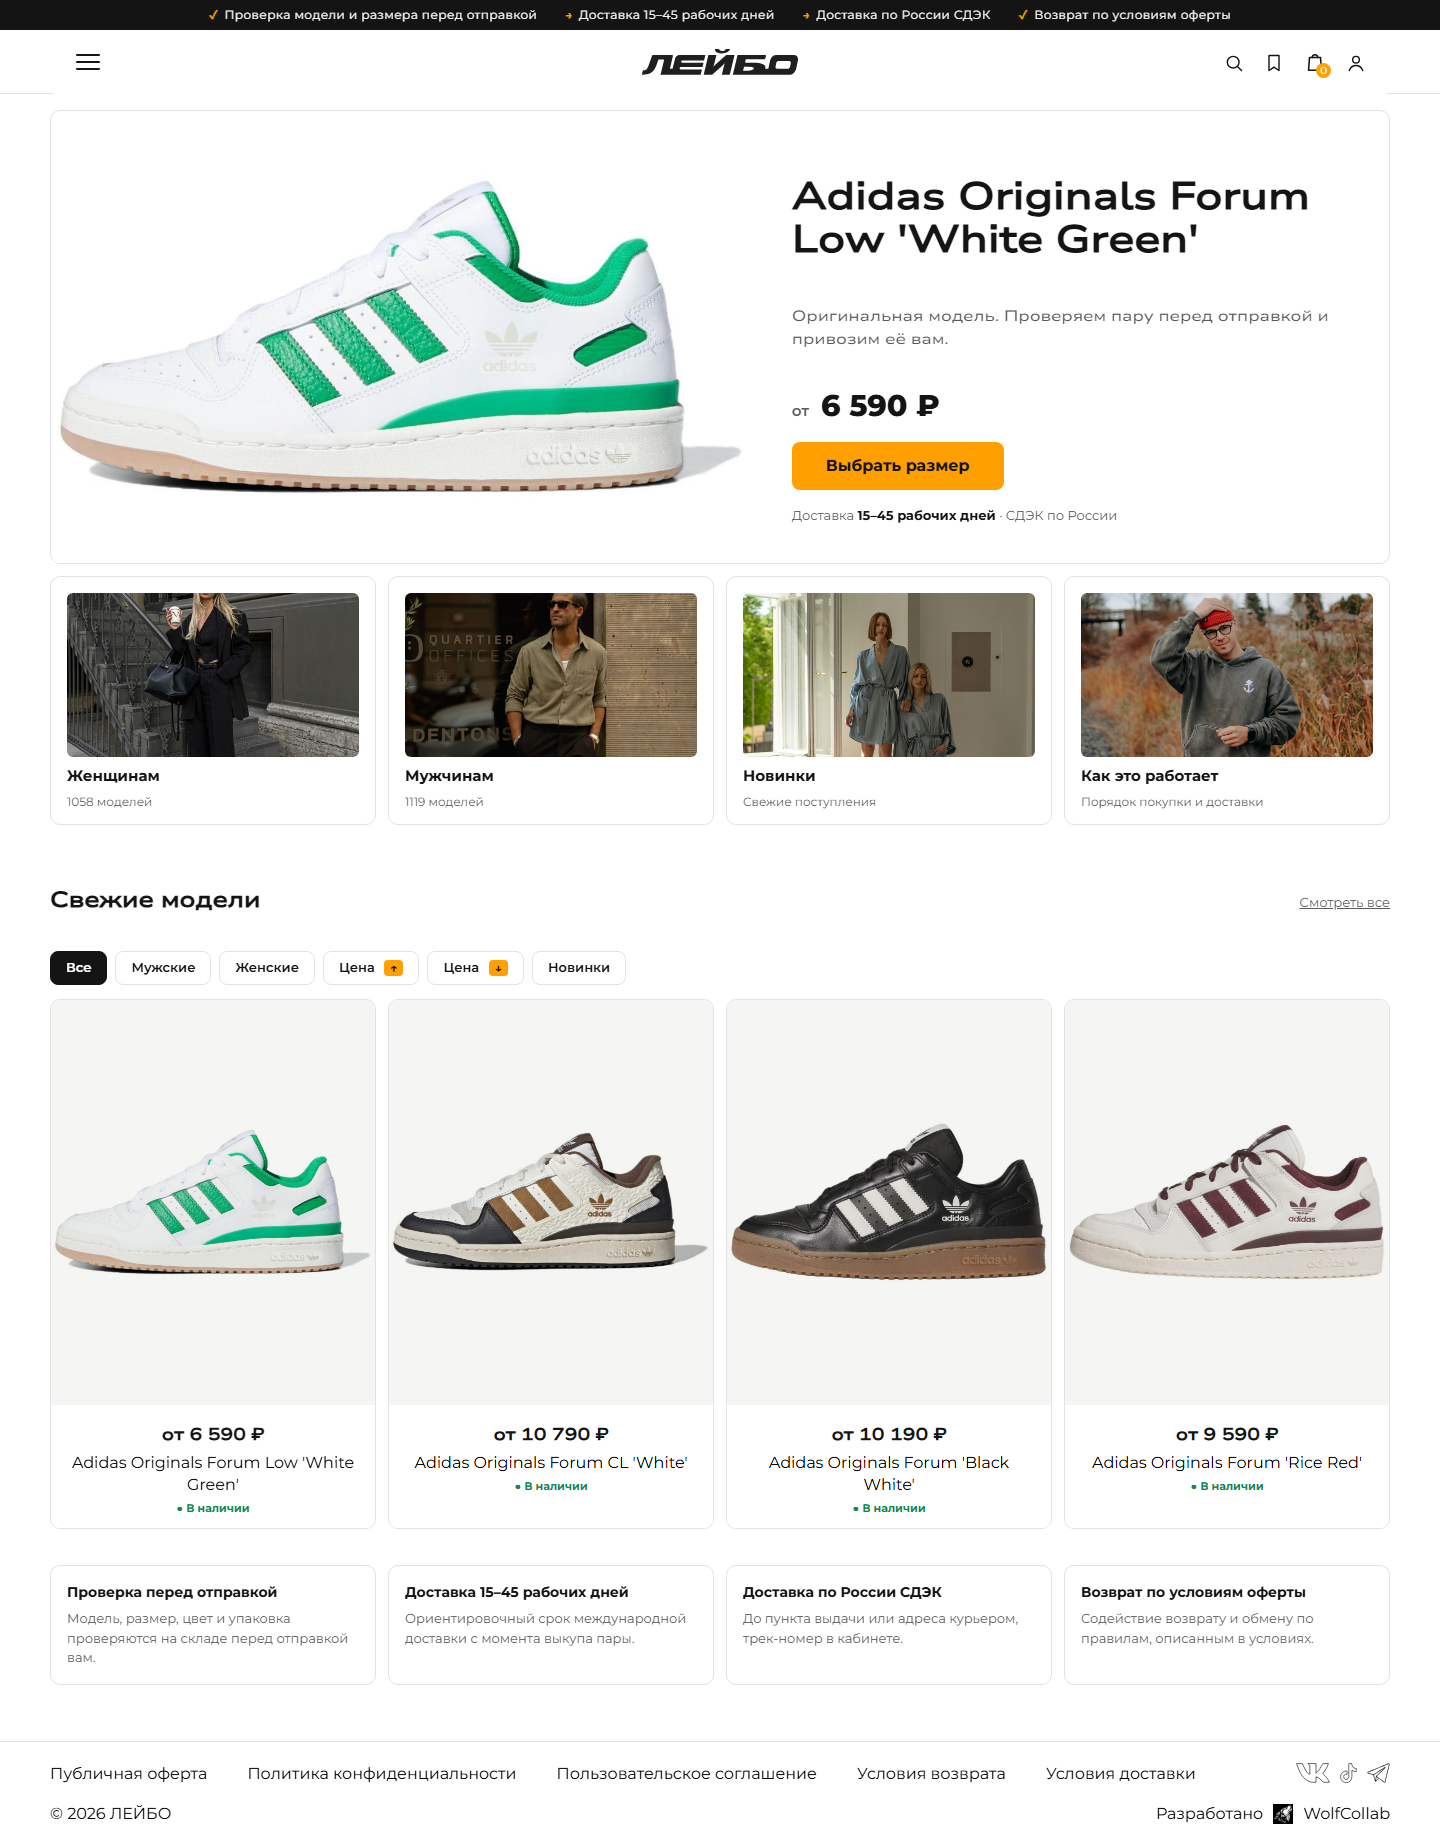
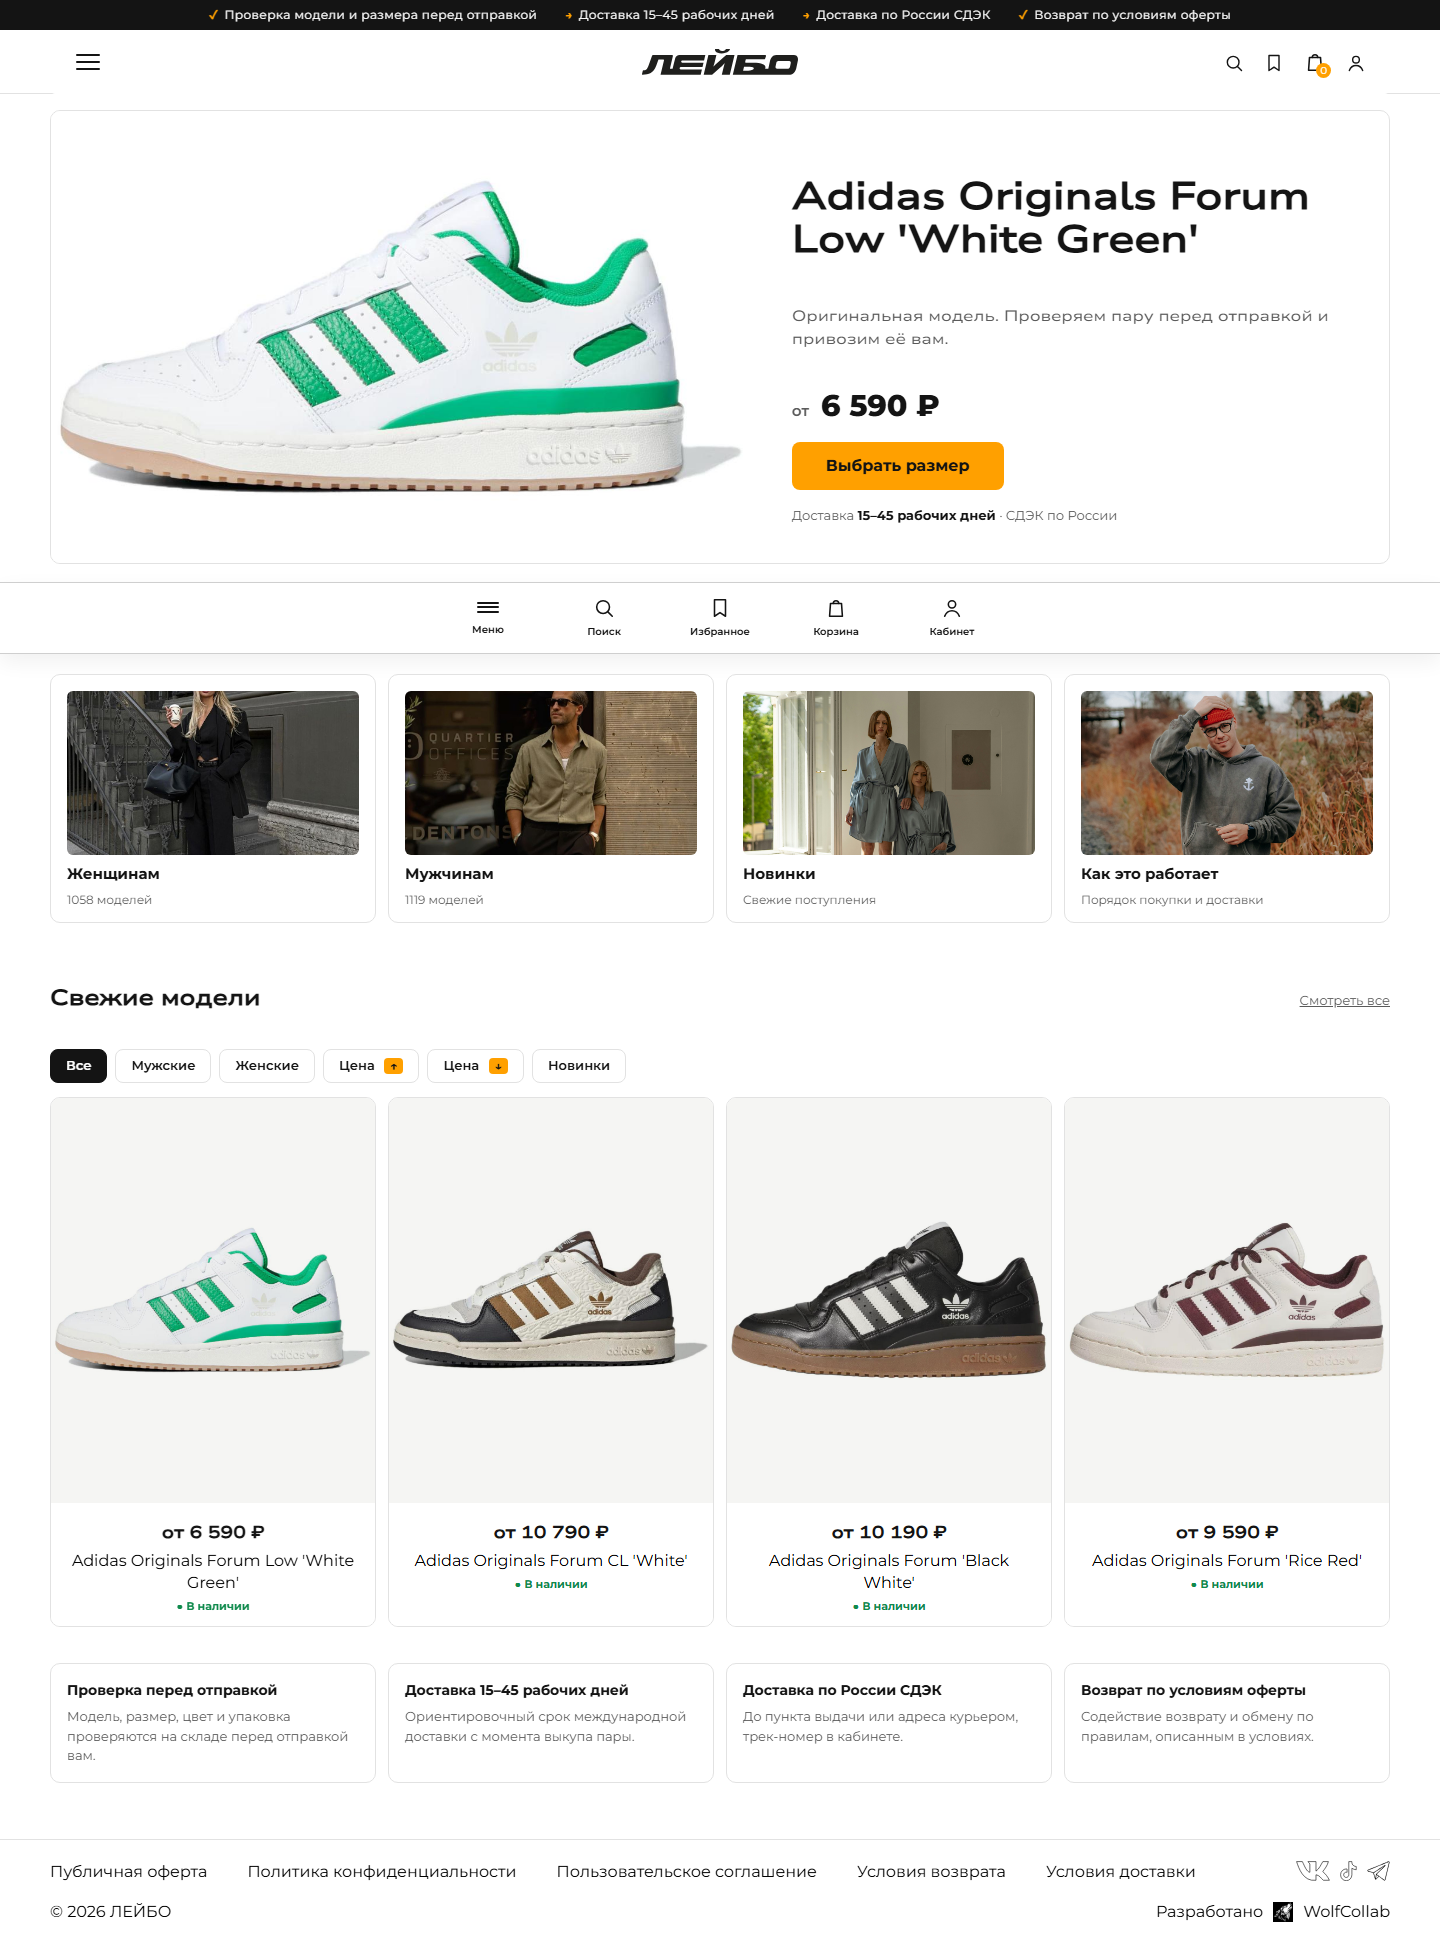
feat(stage3): mid-home divider strip visible on desktop orientation too

diff --git a/wordpress/site/wp-content/themes/isart-theme/assets/css/c-components.css b/wordpress/site/wp-content/themes/isart-theme/assets/css/c-components.css
@@ -213,23 +213,34 @@ a { text-decoration: none; }
 .mobile-nav .cart-fragment .mobile-nav-item--name { color: var(--c-accent-ink); }
 
 /* Статичная полоса-разделитель посреди главной — как в утверждённом макете.
-   На мобильной ширине: белая полоса с иконками между hero и плитками.
-   На десктопе скрыта. */
-.mobile-nav-mid { display: none; }
+   Видна на всех ширинах: на десктопе — центрированное меню,
+   на мобильной — компактная полоса на всю ширину. */
+.mobile-nav-mid {
+  display: flex !important;
+  position: static;
+  align-items: center;
+  justify-content: center;
+  gap: 56px;
+  background: #fff;
+  border-top: 1px solid #CFCFCF;
+  border-bottom: 1px solid #CFCFCF;
+  box-shadow: 0 8px 20px rgba(0, 0, 0, .06);
+  padding: 14px 24px;
+  margin: 18px 0 20px;
+}
+.mobile-nav-mid .mobile-nav-item--icon svg { width: 22px; height: 22px; color: var(--c-ink); display: block; }
+.mobile-nav-mid .mobile-nav-item { display: flex !important; flex-direction: column; align-items: center; gap: 4px; }
+.mobile-nav-mid .burger-icon span { display: block; width: 22px; height: 2px; background: var(--c-ink); border-radius: 2px; margin: 2.5px 0; }
+.mobile-nav-mid .mobile-nav-item--name { color: var(--c-ink); font-size: 10px; font-weight: 600; margin-top: 4px; }
+.mobile-nav-mid .mobile-nav-item:hover svg,
+.mobile-nav-mid .mobile-nav-item:hover .mobile-nav-item--name { color: var(--c-accent-ink); filter: brightness(.7); }
 @media (max-width: 767px) {
   .mobile-nav-mid {
-    display: flex !important;
-    position: static;
-    background: #fff;
-    border-top: 1px solid #CFCFCF;
-    border-bottom: 1px solid #CFCFCF;
-    box-shadow: 0 8px 20px rgba(0, 0, 0, .07);
+    justify-content: space-between;
+    gap: 0;
     padding: 9px 8px 11px;
     margin: 14px 0 16px;
   }
-  .mobile-nav-mid .mobile-nav-item--icon svg { width: 22px; height: 22px; color: var(--c-ink); display: block; }
-  .mobile-nav-mid .burger-icon span { display: block; width: 22px; height: 2px; background: var(--c-ink); border-radius: 2px; margin: 2.5px 0; }
-  .mobile-nav-mid .mobile-nav-item--name { color: var(--c-ink); font-size: 10px; font-weight: 600; margin-top: 4px; }
 }
 
 /* ---------- Мобильная нижняя навигация ---------- */
